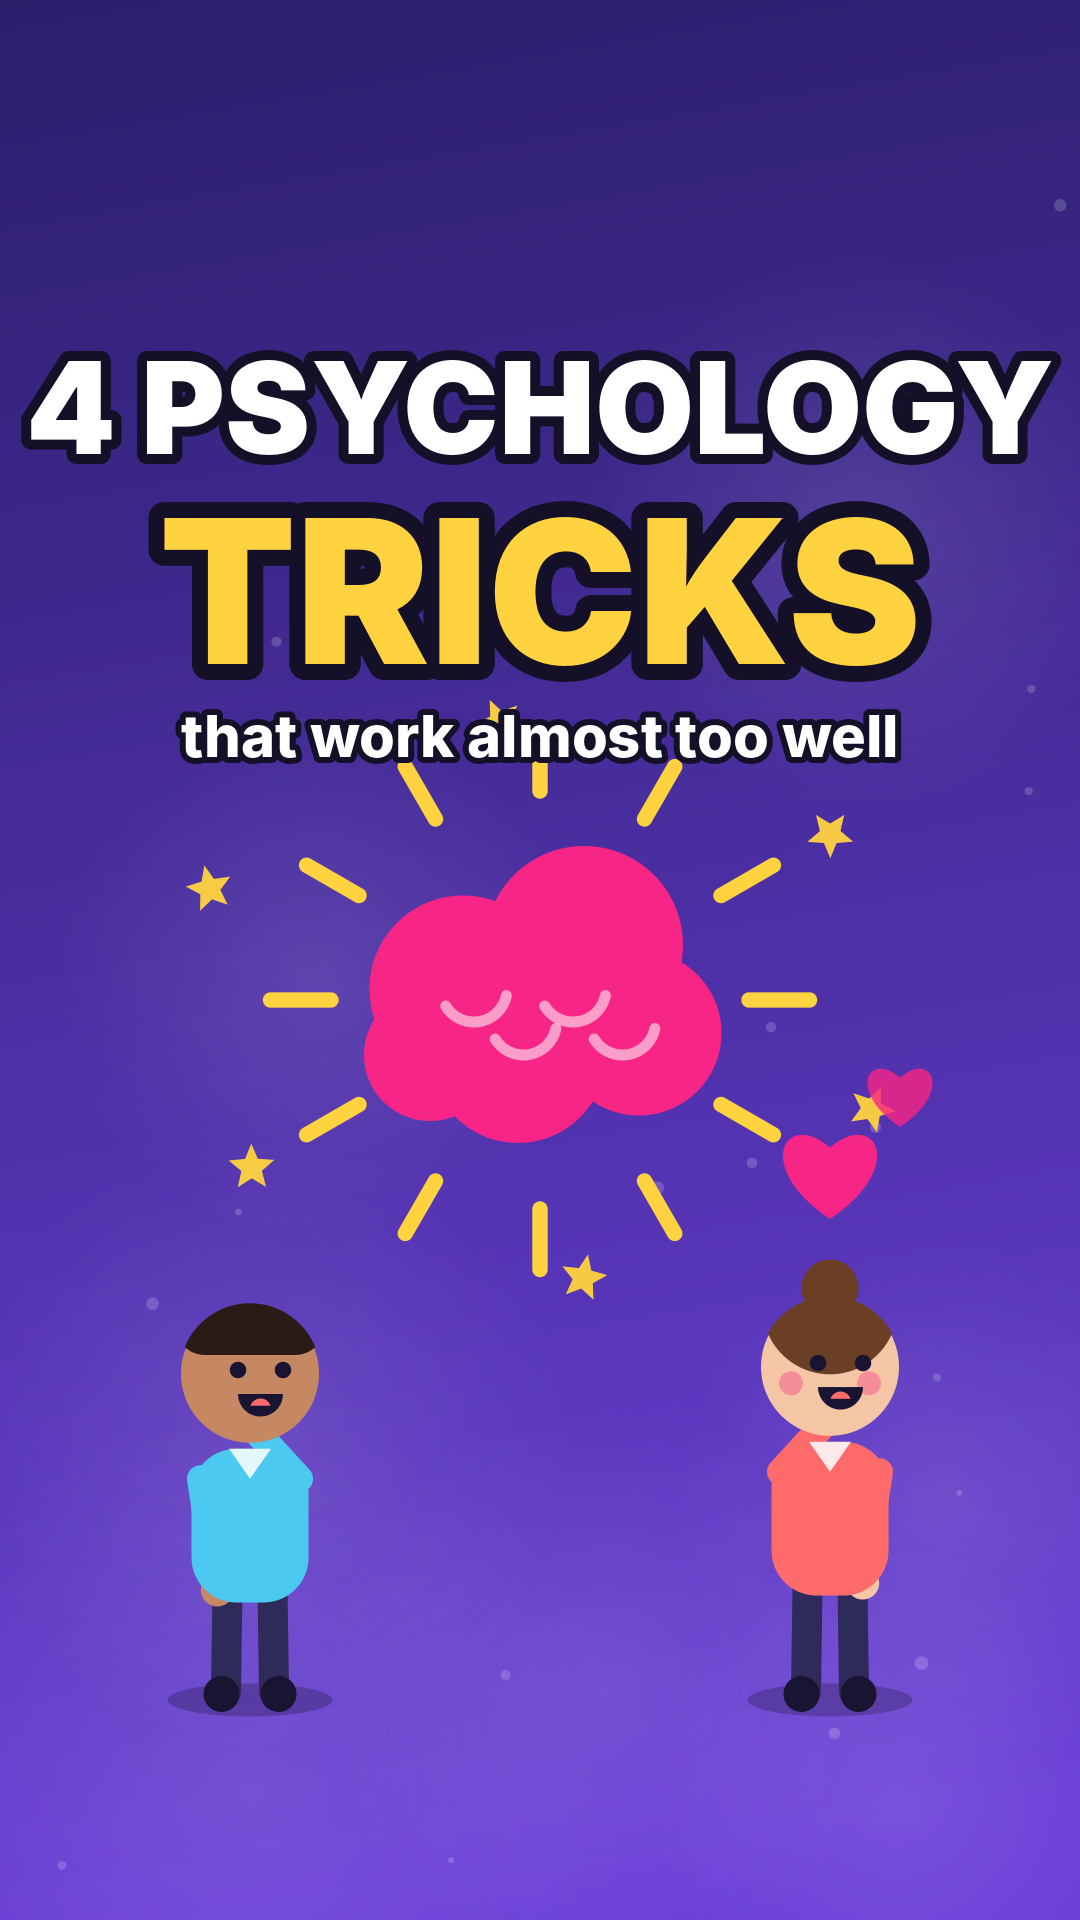
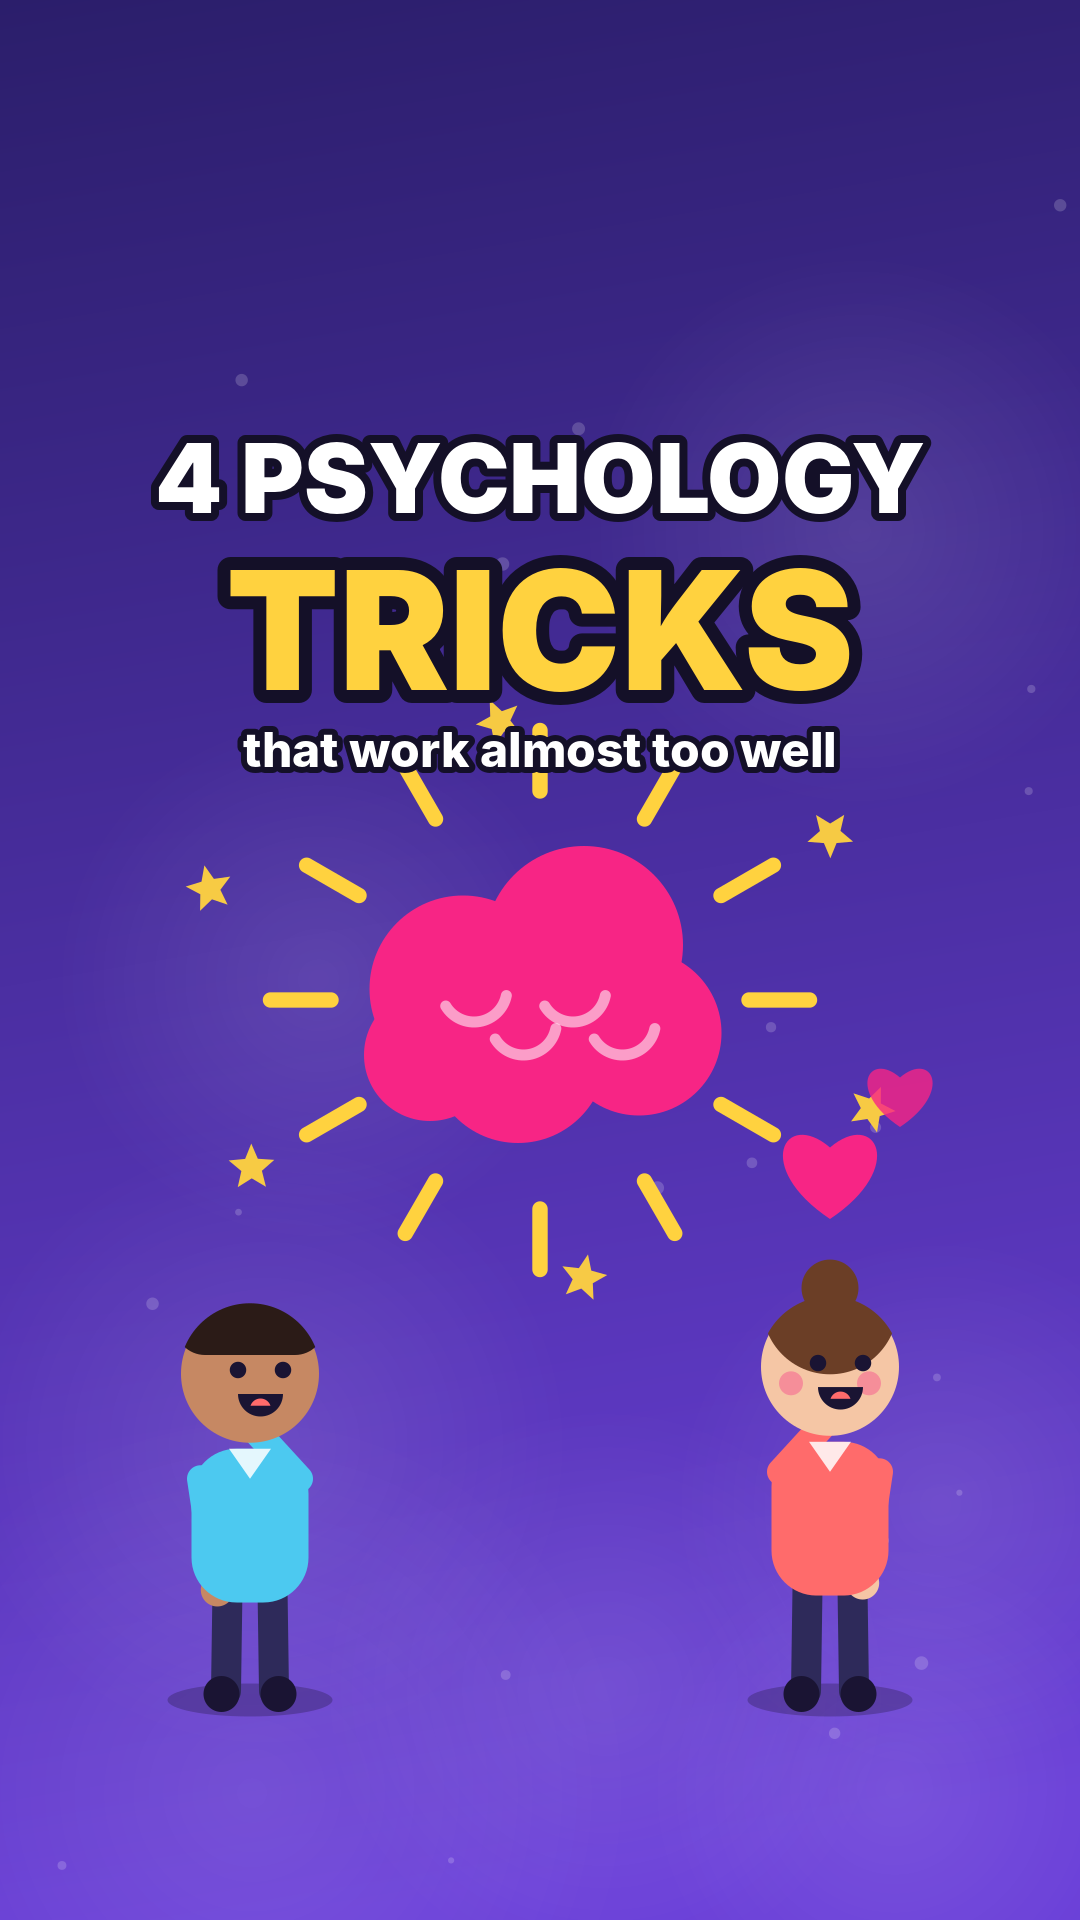
Fit reel 1 cover title inside profile grid crop
Claude-Session: https://claude.ai/code/session_0194Cy2RzHFDUohKyZVraCjE

Changed region(s): [[0.0, 0.1562, 0.9778, 0.4062]]

diff --git a/reel01/cover.py b/reel01/cover.py
@@ -22,8 +22,8 @@ d=ImageDraw.Draw(img); F='/usr/share/fonts/opentype/inter/'
 def ct(txt,y,size,fill,font='Inter-Black.otf'):
     f=ImageFont.truetype(F+font,size); w=d.textlength(txt,font=f)
     d.text(((W-w)/2,y),txt,font=f,fill=fill,stroke_width=max(6,size//12),stroke_fill=(20,16,40))
-ct('4 PSYCHOLOGY',330,128,(255,255,255))
-ct('TRICKS',470,200,(255,210,63))
-ct('that work almost too well',700,58,(255,255,255),'Inter-ExtraBold.otf')
+ct('4 PSYCHOLOGY',420,96,(255,255,255))
+ct('TRICKS',530,165,(255,210,63))
+ct('that work almost too well',720,48,(255,255,255),'Inter-ExtraBold.otf')
 img.save('cover_reel01.png')
 img.resize((540,960)).save('/tmp/claude-0/-home-user--/eedeb946-f1d8-5985-8482-23b174c808ae/scratchpad/cover_prev.png')
